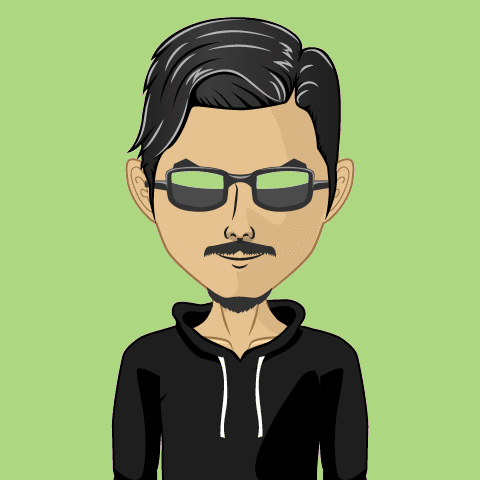
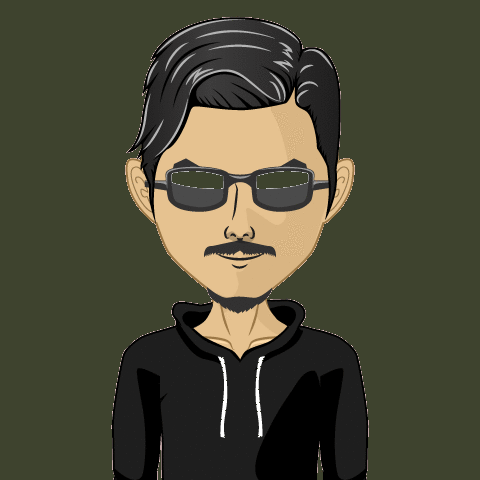
updating dark scheme

diff --git a/src/theme.ts b/src/theme.ts
@@ -1,21 +1,21 @@
 const theme = {
   color: {
     light: {
-      primary: "#14031A", //primary1
-      primary2: "#949494", //primary1
-      primary3: "#fff", //primary3
-      secondary1: "#5A4848", //secondary1
-      secondary2: "#78BB61", //secondary2
-      accent1: "#FF7521", //accent1
+      primary: "#14031A",
+      primary2: "#949494",
+      primary3: "#fff",
+      secondary1: "#5A4848",
+      secondary2: "#78BB61",
+      accent1: "#FF7521",
       heartRed: "red",
     },
     dark: {
-      primary: "#7a432e",
-      primary2: "#7a432e",
-      primary3: "#fddfb9",
-      secondary1: "#c67645",
-      secondary2: "#fbc773",
-      accent1: "#add781",
+      primary: "#2E5C18",
+      primary2: "#2E5C18",
+      primary3: "#000000",
+      secondary1: "#3E432E",
+      secondary2: "#616F39",
+      accent1: "#A7D129",
       heartRed: "red",
     },
   },
